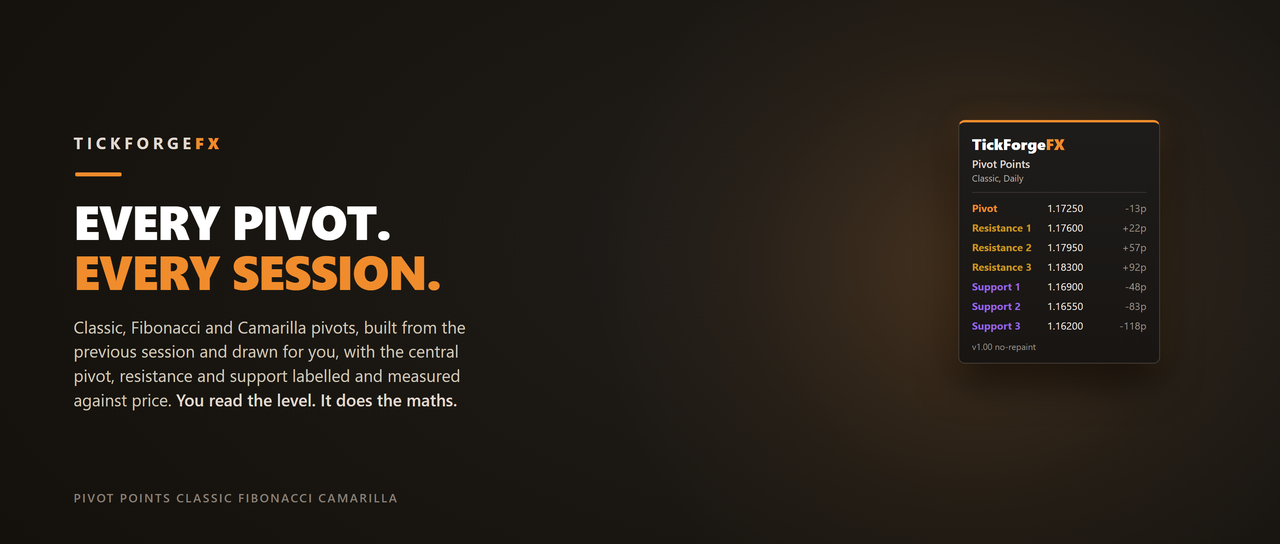
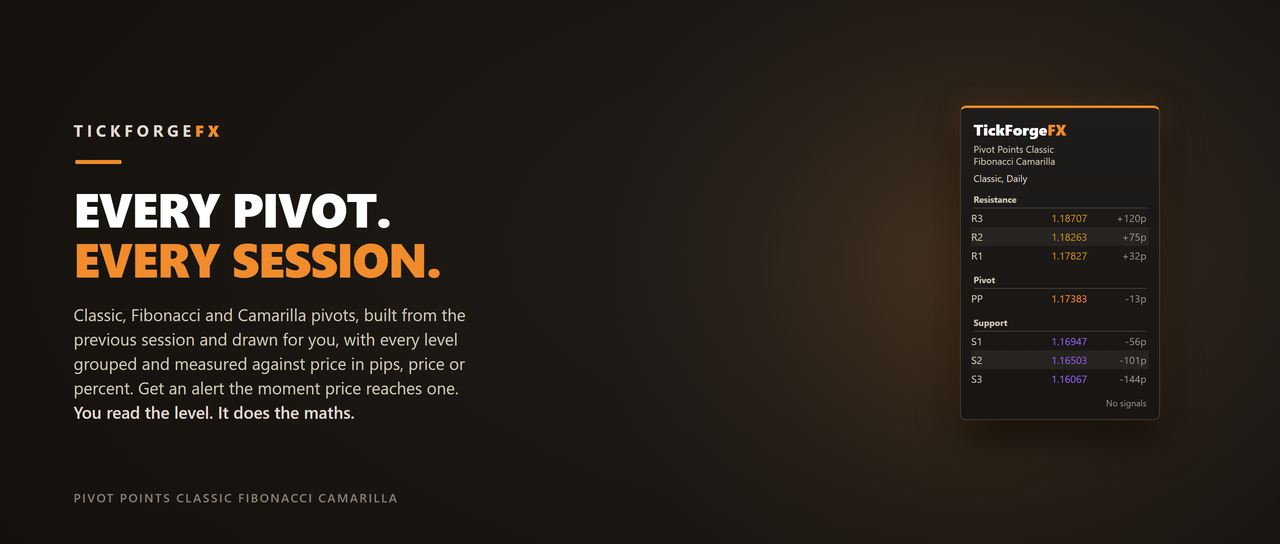
Pivot Points v1.2: alerts, a rebuilt panel, and a fresh chart capture
The panel now groups levels under Resistance, Pivot and Support, shows each
one's distance in pips, price or percent, and can alert on a touch through a
popup, a sound, a push notification or an email.

Gallery refreshed: a new chart capture on a live XAUUSD M15 chart showing the
panel and the right-edge price chips together, plus the mechanics and
positioning banners the public page did not have.

diff --git a/README.md b/README.md
@@ -289,13 +289,19 @@ schedule you set. Free on the MQL5 Market:
 A free pivot-points indicator for MetaTrader 5. It computes the support and resistance levels a
 large part of the market watches each session, in three methods, Classic floor pivots, Fibonacci,
 and Camarilla, from the previous closed daily, weekly, or monthly candle. Each level is a labelled
-line, and a compact panel lists the central pivot, every resistance and support, and how far price
-sits from each in pips. Levels that sit far from price pin to the chart edge with an arrow so you
-always see the whole set, and because the source candle is closed they stay fixed for the session.
-No signals, no repaint. Free on the MQL5 Market:
+line, and a compact panel lists them grouped under Resistance, Pivot and Support, in that order,
+with the outermost level of each group first, and each level's distance from price shown in pips,
+in price, or as a percentage. An optional alert tells you when price reaches
+a level, on popup, sound, push or email. Levels that sit far from price pin to the chart edge with
+an arrow so you always see the whole set, and because the source candle is closed they stay fixed
+for the session. No signals, no repaint. Free on the MQL5 Market:
 [Pivot Points Classic Fibonacci Camarilla](https://www.mql5.com/en/market/product/186251).
 
 ![Classic, Fibonacci and Camarilla pivots drawn from the previous session, with the central pivot, resistance and support labelled](screenshots/PivotPoints/banners/pp-hero-dark.png)
+
+![Three calculation methods: Classic floor pivots, Fibonacci projections, and the close-based Camarilla levels](screenshots/PivotPoints/banners/pp-mechanics-dark.png)
+
+![It marks the levels, you make the call: computed from the previous closed candle, fixed for the whole period, no repaint](screenshots/PivotPoints/banners/pp-positioning-dark.png)
 
 ![The indicator on a live XAUUSD chart: the pivot on its line and the off-screen levels pinned to the chart edge](screenshots/PivotPoints/banners/pp-chart-dark.png)
 

diff --git a/products/pivot-points/PRODUCT_PAGE.md b/products/pivot-points/PRODUCT_PAGE.md
@@ -13,9 +13,19 @@ Drop it on any chart and it builds the pivot levels for the period you choose:
   and R4/S4 breakout levels).
 - **Daily, weekly or monthly** period, whichever session you trade.
 
-Each level is a labelled line showing its price, and a compact forge panel lists the central
-pivot, every resistance and support, and how far price sits from each in pips. The central
-pivot is highlighted so the line in the middle is never in doubt.
+Each level is a labelled line showing its price, and a compact forge panel lists them grouped
+under Resistance, Pivot and Support, ordered high to low so the panel reads top to bottom the
+same way the chart does. Every row shows the level's price and how far price sits from it.
+Choose whether that distance reads in pips, in price, or as a percentage; percent is the one
+that means the same thing on every instrument.
+
+## An alert when price gets there
+
+Optional, and off until you switch it on. Choose any mix of a popup, a sound, a push
+notification to your phone, and an email. It fires once per level per day, it will not
+announce a level price had already passed when you attached the indicator, and it stays quiet
+when the period rolls over and every pivot recalculates at once. It tells you price reached a
+level you chose. It is not a suggestion to trade it.
 
 ## Why it exists
 
@@ -31,8 +41,8 @@ the whole period. No repaint.
 
 ## What it does not do
 
-It does not place trades, fire buy or sell signals, or predict direction. It marks the levels
-and measures distance. The call stays yours.
+It does not place trades, fire buy or sell signals, or predict direction. It marks the levels,
+measures distance, and can tell you when price arrives. The call stays yours.
 
 ## Recommended use
 
